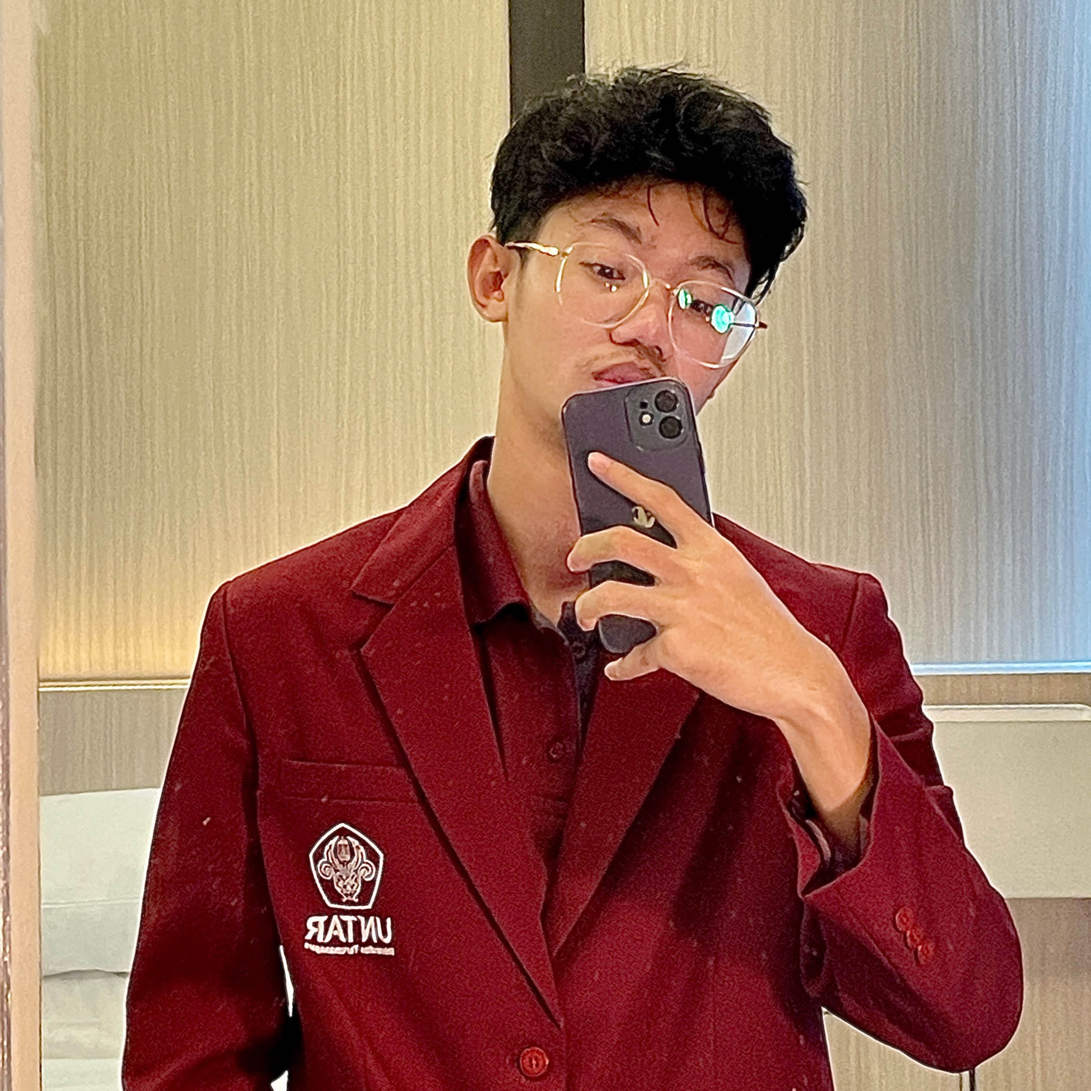
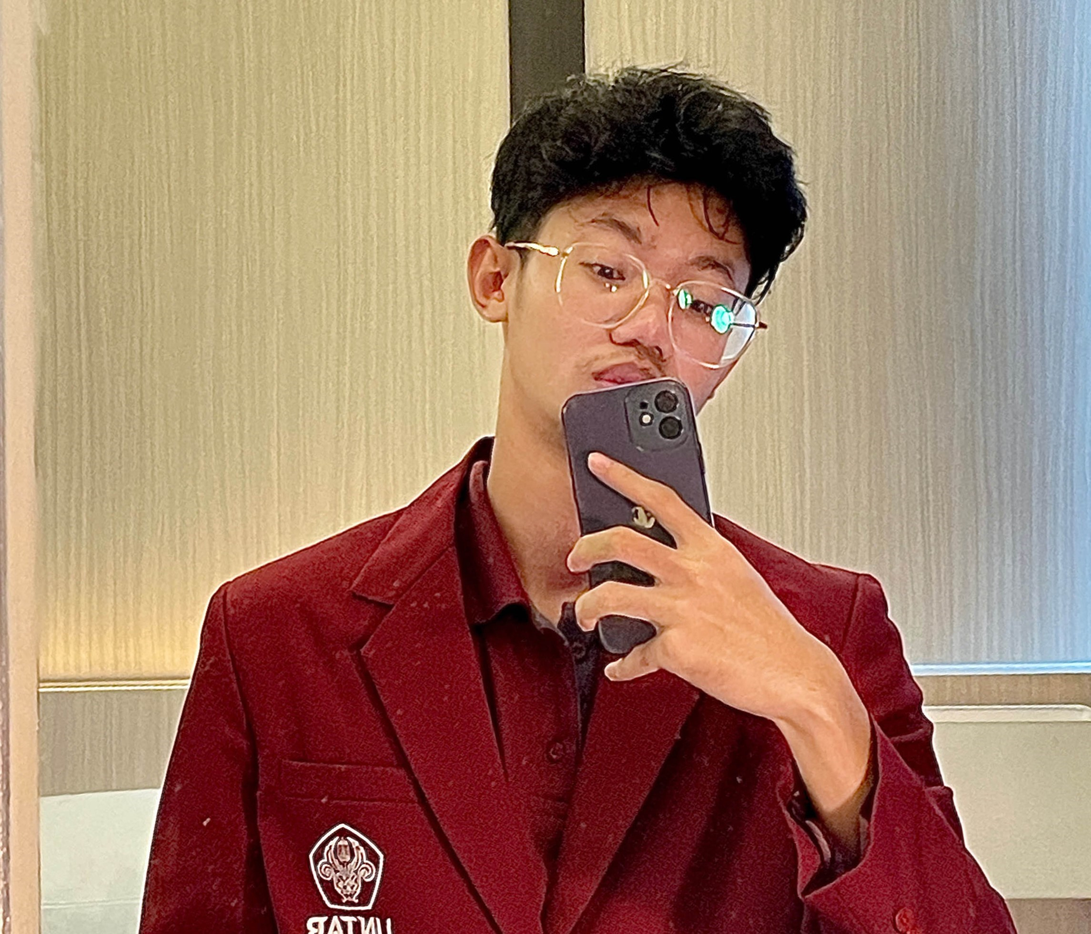
add photo

diff --git a/app/about/page.tsx b/app/about/page.tsx
@@ -18,7 +18,7 @@ const teamMembers = [
   {
     name: "Annisa Fadhilah Ramadhani",
     nim: "915230238",
-    image: "/professional-woman-engineer.jpg",
+    image: "/fani.jpg",
   },
   {
     name: "Salsabila Khalfian",
@@ -105,37 +105,28 @@ export default function About() {
       {/* Team Section */}
       <section className="max-w-7xl mx-auto px-6 py-12">
         <div className="text-center mb-16">
-          <h2 className="text-4xl font-bold mb-4 text-slate-900">
-            Temui Tim Kami
-          </h2>
+          <h2 className="text-4xl font-bold mb-4 text-slate-900">Temui Tim Kami</h2>
           <p className="text-xl text-slate-600">
             Orang-orang kreatif yang siap nge-boost eksplorasi karier Gen Z kamu!
           </p>
         </div>
+
         <div className="grid grid-cols-1 md:grid-cols-3 gap-8 justify-items-center">
-          {/* First 3 team members */}
-          {teamMembers.slice(0, 3).map((member, index) => (
-            <div key={index} className="group w-full max-w-sm">
-              <div className="relative mb-6 h-64 rounded-3xl overflow-hidden bg-white/40 border border-white/30 shadow-lg backdrop-blur-xl transition-all group-hover:shadow-2xl group-hover:scale-105">
-                <Image src={member.image || "/placeholder.svg"} alt={member.name} fill className="object-cover" />
+          {teamMembers.map((member, index) => (
+            <div key={index} className="group w-full lg:min-w-sm flex flex-col h-full">
+              {/* Card Image */}
+              <div className="relative mb-6 w-full aspect-[7/5] rounded-3xl overflow-hidden bg-white/40 border border-white/30 shadow-lg backdrop-blur-xl transition-all group-hover:shadow-2xl group-hover:scale-105">
+                <Image
+                  src={member.image || "/placeholder.svg"}
+                  alt={member.name}
+                  fill
+                  className="object-cover"
+                />
                 <div className="absolute inset-0 bg-gradient-to-t from-black/20 to-transparent"></div>
               </div>
-              <div className="bg-white/40 backdrop-blur-xl rounded-2xl p-5 shadow-lg border border-white/30 transition-all group-hover:shadow-xl">
-                <h3 className="text-lg font-bold mb-1 text-slate-900">{member.name}</h3>
-                <span className="text-sm text-blue-600 font-semibold">{member.nim}</span>
-              </div>
-            </div>
-          ))}
-        </div>
-        {/* Second row with 2 team members */}
-        <div className="grid grid-cols-1 md:grid-cols-2 justify-items-center mt-8">
-          {teamMembers.slice(3, 5).map((member, index) => (
-            <div key={index} className="group w-full max-w-sm">
-              <div className="relative mb-6 h-64 rounded-3xl overflow-hidden bg-white/40 border border-white/30 shadow-lg backdrop-blur-xl transition-all group-hover:shadow-2xl group-hover:scale-105">
-                <Image src={member.image || "/placeholder.svg"} alt={member.name} fill className="object-cover" />
-                <div className="absolute inset-0 bg-gradient-to-t from-black/20 to-transparent"></div>
-              </div>
-              <div className="bg-white/40 backdrop-blur-xl rounded-2xl p-5 shadow-lg border border-white/30 transition-all group-hover:shadow-xl">
+
+              {/* Card Info */}
+              <div className="bg-white/40 backdrop-blur-xl rounded-2xl p-5 shadow-lg border border-white/30 transition-all group-hover:shadow-xl flex-grow flex flex-col justify-end">
                 <h3 className="text-lg font-bold mb-1 text-slate-900">{member.name}</h3>
                 <span className="text-sm text-blue-600 font-semibold">{member.nim}</span>
               </div>

diff --git a/app/layout.tsx b/app/layout.tsx
@@ -15,14 +15,6 @@ export const metadata: Metadata = {
   icons: {
     icon: [
       {
-        url: "/icon-light-32x32.png",
-        media: "(prefers-color-scheme: light)",
-      },
-      {
-        url: "/icon-dark-32x32.png",
-        media: "(prefers-color-scheme: dark)",
-      },
-      {
         url: "/path-z.svg",
         type: "image/svg+xml",
       },
